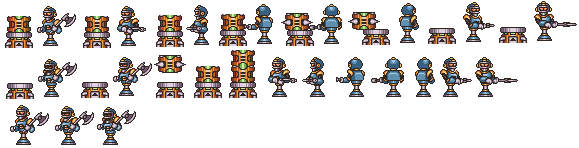
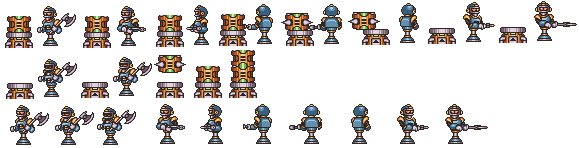
나무 맵에 색 그리기 -> 일단 성공. dt마다 그려도 연산 부하 버틸만함. 특정 함수 호출시로 바꾸면 됨

diff --git a/MegamanX/Scenes/SceneGame.cpp b/MegamanX/Scenes/SceneGame.cpp
@@ -1,7 +1,7 @@
 #include "pch.h"
 #include "SceneGame.h"
 #include "Player/Player.h"
-
+#include "Enemy/Stump.h"
 
 SceneGame::SceneGame(SceneIds id) : Scene(id)
 {
@@ -59,6 +59,17 @@ void SceneGame::Init()
 	player = new Player("player");
 	AddGo(player);
 	player->SetPosition({ 0,0 });
+
+	Stump* stump = new Stump("stump");
+	AddGo(stump);
+	stump->SetOrigin(Origins::BC);
+	stump->SetPosition({ 400, 880 });
+
+	Stump* stump2 = new Stump("stump2");
+	AddGo(stump2);
+	stump2->SetOrigin(Origins::BC);
+	stump2->SetPosition({ 450, 850 });
+
 
 	Scene::Init();
 
@@ -129,6 +140,18 @@ void SceneGame::FixedUpdate(float dt)
 	Scene::FixedUpdate(dt);
 }
 
+
+void SceneGame::SetPixelToMap(int a, int b, int x, int y, sf::Color c)
+{
+	//if (c == sf::Color ({ 255,0,0 }))
+
+	for(int j = 0; j < 12; ++j)
+		for (int i = a; i < b + 1; i++)
+		{
+			collisionMapImage.setPixel(i, x+j, c);
+		}
+		player->NewCollisionMap();
+}
 
 void SceneGame::Draw(sf::RenderWindow& window)
 {

diff --git a/MegamanX/Player/Player.h b/MegamanX/Player/Player.h
@@ -132,6 +132,8 @@ public:
 	Player(const std::string& name = "");
 	~Player() override = default;
 
+	void NewCollisionMap();
+
 	const Status GetPreStatus() { return preStatus; }
 	const Status GetCurrentStatus() {return currentStatus;}
 	void SetPlayerStatus(Status status);

diff --git a/MegamanX/Player/Player.cpp b/MegamanX/Player/Player.cpp
@@ -1152,6 +1152,11 @@ void Player::CheckSlopeCollision()
 	isSlopeGrounded = isSlopeColliding;
 }
 
+void Player::NewCollisionMap()
+{
+	MapImage = sceneGame->collisionMapImage;
+}
+
 void Player::Draw(sf::RenderWindow& window)
 {
 	window.draw(sprite);

diff --git a/MegamanX/Scenes/SceneGame.h b/MegamanX/Scenes/SceneGame.h
@@ -47,6 +47,8 @@ public:
 	void FixedUpdate(float dt);
 
 
+	void SetPixelToMap(int a, int b,int x, int y, sf::Color c);
+
 	void Draw(sf::RenderWindow& window);
 
 	sf::Vector2f PlayerBoundsWorldToMapLocal(sf::Vector2f playerBounds);
